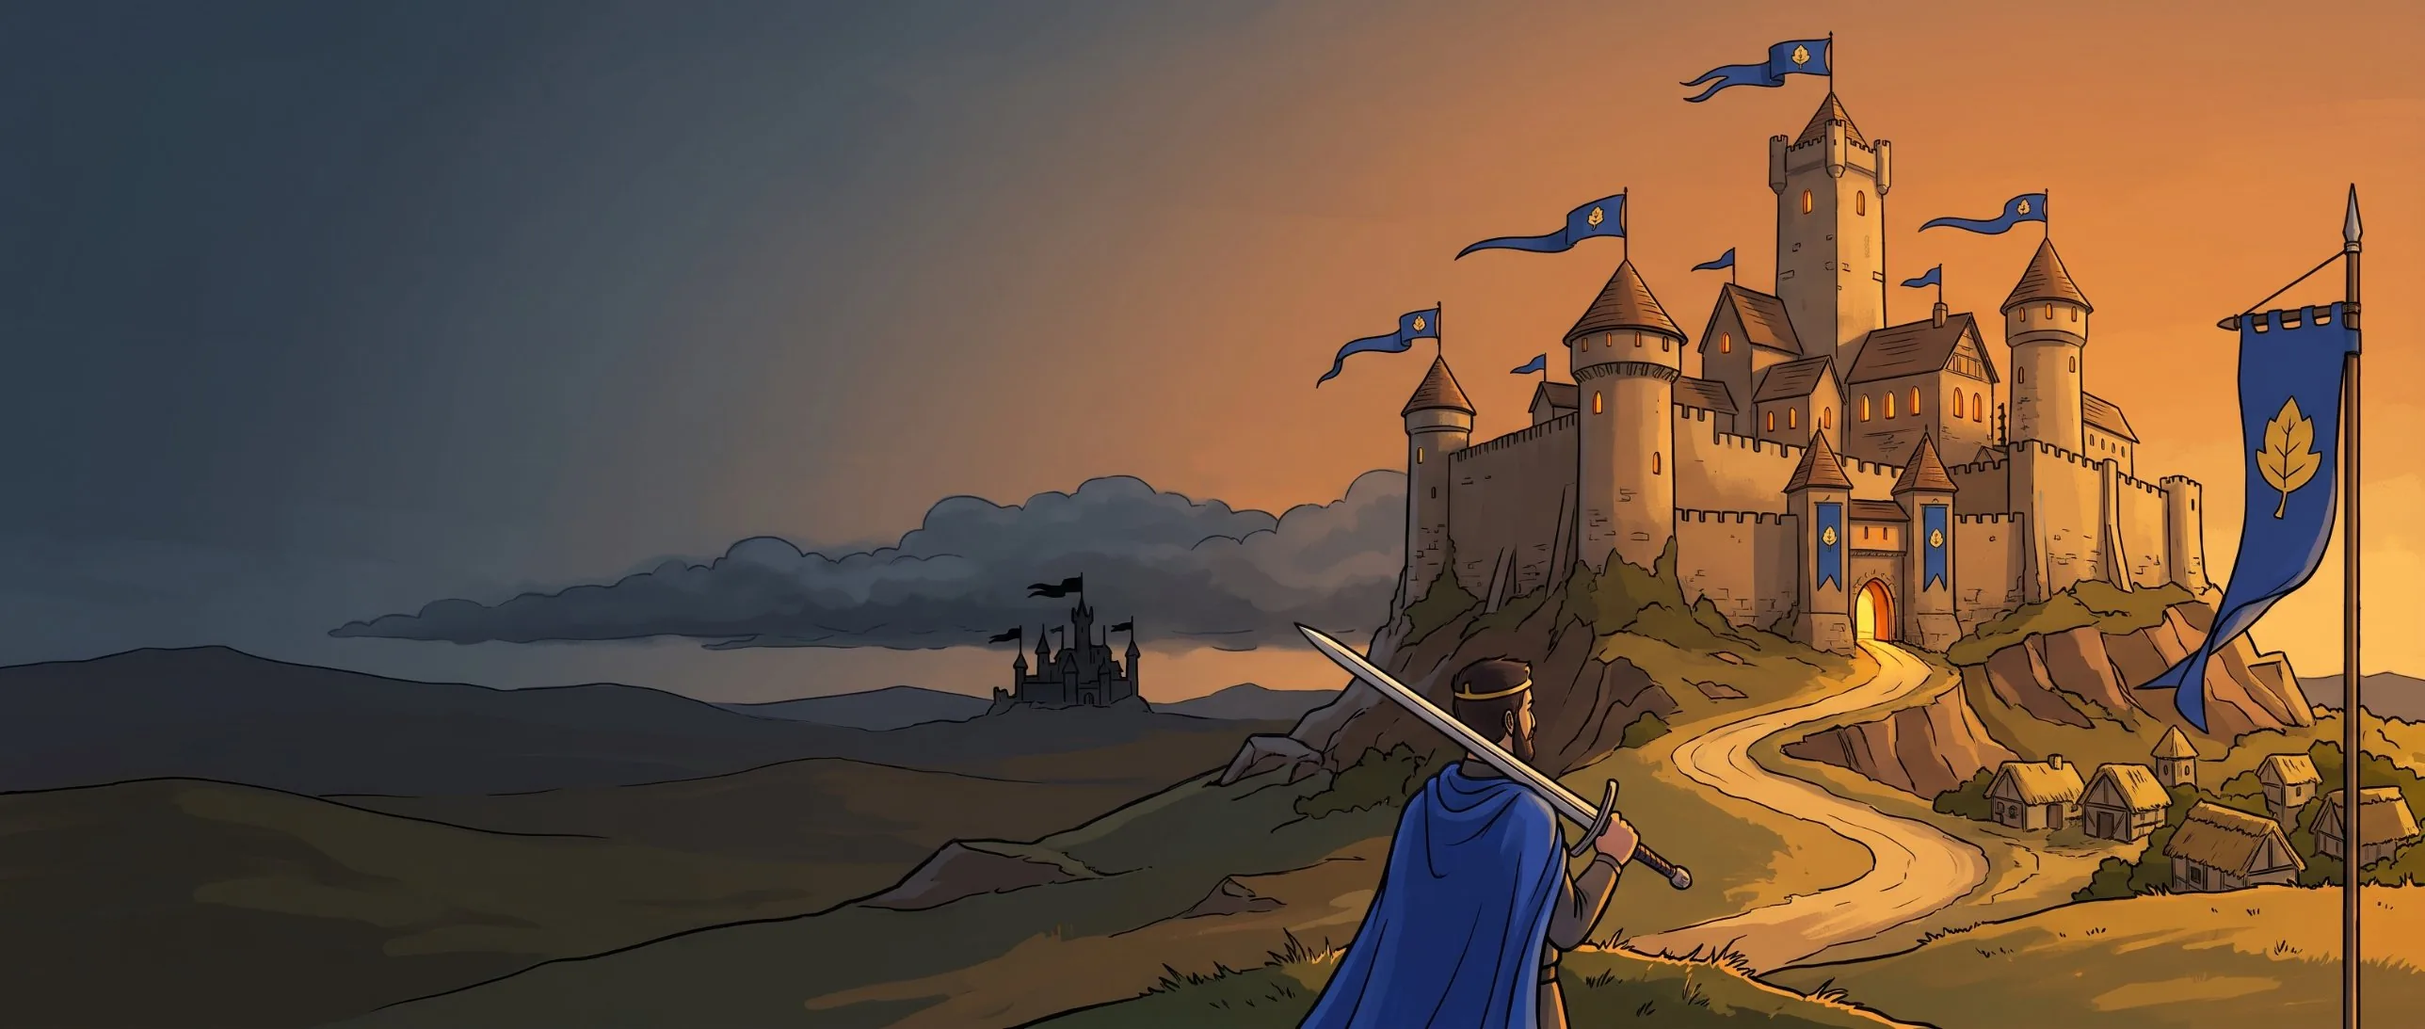
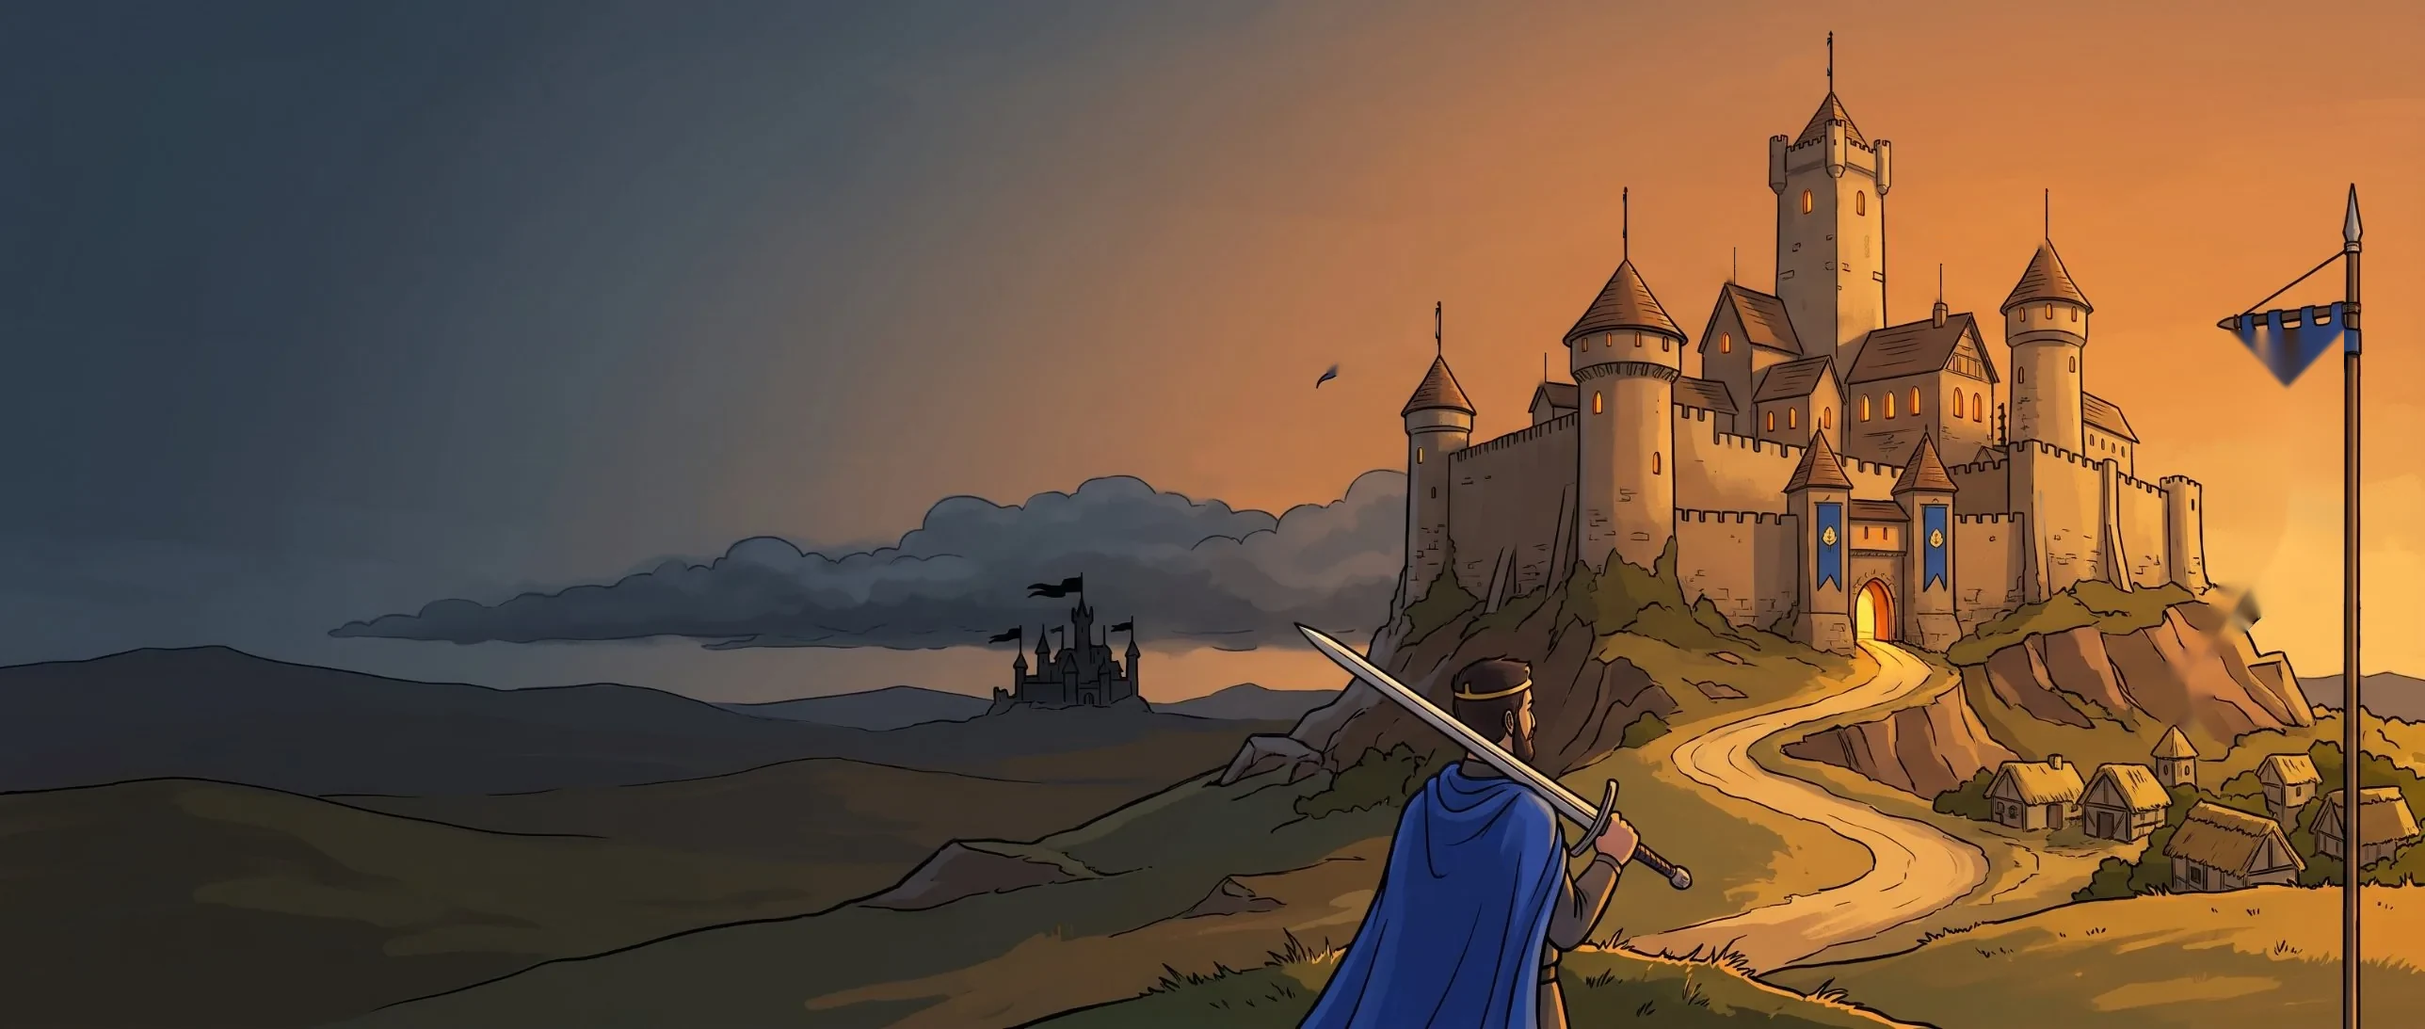
0.50.1: wapperende vlaggen, ondertitel binnen lint, gelijke knoppen, tagline weg
Claude-Session: https://claude.ai/code/session_01Tgsfz29edg2imvc78DZgVE

diff --git a/sw.js b/sw.js
@@ -2,9 +2,9 @@
 // Netwerk eerst; lukt dat niet, dan de bewaarde kopie. Bij elke stap VERSIE
 // ophogen en nieuwe bestanden aan KERN toevoegen.
 // (Opnieuw opgebouwd in stap 15: de vorige sw.js stond niet in het artifact.)
-const VERSIE = 'burcht-banier-0.50.0';
-const KERN = ["./index.html", "./manifest.webmanifest", "./css/stijl.css", "./data/assets.json", "./data/bouwwerken.json", "./data/economie.json", "./data/missies.json", "./data/kaarten.json", "./data/kastelen.json", "./data/campagne.json", "./data/levelkaart.json", "./beelden/levelkaart.webp", "./beelden/startscherm.webp", "./beelden/titel/logo.webp", "./beelden/titel/knop_campagne.webp", "./beelden/titel/knop_verder.webp", "./beelden/titel/knop_vrij.webp",
-  "./beelden/portretten/aleid.jpg", "./beelden/portretten/bartholt.jpg", "./beelden/portretten/brandt.jpg", "./beelden/portretten/everhard.jpg", "./beelden/portretten/gesina.jpg", "./beelden/portretten/hademar.jpg", "./beelden/portretten/ingeborg.jpg", "./beelden/portretten/karel.jpg", "./beelden/portretten/karel_boos.jpg", "./beelden/portretten/karel_rouw.jpg", "./beelden/portretten/lambrecht.jpg", "./beelden/portretten/ludolf.jpg", "./beelden/portretten/mechteld.jpg", "./beelden/portretten/ottger.jpg", "./beelden/portretten/ottger_boos.jpg", "./beelden/portretten/ottger_verdriet.jpg", "./beelden/portretten/reinout.jpg", "./beelden/portretten/rutger.jpg", "./beelden/portretten/valkenier.jpg", "./beelden/portretten/wessel.jpg", "./beelden/portretten/wessel_bang.jpg", "./beelden/portretten/wessel_blij.jpg", "./beelden/hud/adviseur_rand.webp", "./beelden/hud/buidel.webp", "./beelden/hud/hamer.webp", "./beelden/hud/lint.webp", "./beelden/hud/logboek_rol.webp", "./beelden/hud/medaillon.webp", "./beelden/hud/rol.webp", "./beelden/hud/slopen.webp", "./beelden/hud/tandwiel.webp", "./beelden/hud/teller_zegel.webp", "./beelden/hud/zegel_economie.webp", "./beelden/hud/zegel_leger.webp", "./beelden/hud/zegel_uitleg.webp", "./beelden/hud/zegel_verhaal.webp", "./beelden/hud/zegel_vijand.webp", "./beelden/hud/zwaard.webp", "./beelden/hud/res/hout.svg", "./beelden/hud/res/planken.svg", "./beelden/hud/res/steen.svg", "./beelden/hud/res/voedsel.svg", "./beelden/hud/res/boeren.svg", "./beelden/hud/res/goud.svg", "./beelden/hud/res/populariteit.svg", "./beelden/hud/res/populariteit_slecht.svg", "./beelden/hud/res/aanval.svg", "./beelden/hud/res/tarwe.svg", "./beelden/hud/res/brood.svg", "./beelden/hud/res/koper.svg", "./icons/icon-180.png", "./icons/icon-192.png", "./icons/icon-512.png", "./js/assets.js", "./js/bouwen.js", "./js/camera.js", "./js/config.js", "./js/economie.js", "./js/eenheden.js", "./js/heren.js", "./js/soldaten.js", "./js/machines.js", "./js/invoer.js", "./js/iso.js", "./js/kaart.js", "./js/kunst.js", "./js/leger.js", "./js/main.js", "./js/meting.js", "./js/modus.js", "./js/opslag.js", "./js/rood.js", "./js/veldheer.js", "./js/spellus.js", "./js/strijd.js", "./js/taal.js", "./js/tekenaar.js", "./js/toeval.js", "./js/ui.js", "./js/verhaal.js", "./js/proloog.js", "./js/doel.js", "./js/loodsen.js", "./js/wegvinden.js", "./js/landschap.js"];
+const VERSIE = 'burcht-banier-0.50.1';
+const KERN = ["./index.html", "./manifest.webmanifest", "./css/stijl.css", "./data/assets.json", "./data/bouwwerken.json", "./data/economie.json", "./data/missies.json", "./data/kaarten.json", "./data/kastelen.json", "./data/campagne.json", "./data/levelkaart.json", "./beelden/levelkaart.webp", "./beelden/startscherm.webp", "./beelden/titel/logo.webp", "./beelden/titel/knop_campagne.webp", "./beelden/titel/knop_verder.webp", "./beelden/titel/knop_vrij.webp", "./beelden/titel/vlaggen/top.webp", "./beelden/titel/vlaggen/wimpel_a.webp", "./beelden/titel/vlaggen/wimpel_b.webp", "./beelden/titel/vlaggen/wimpel_c.webp", "./beelden/titel/vlaggen/klein_a.webp", "./beelden/titel/vlaggen/klein_b.webp", "./beelden/titel/vlaggen/klein_c.webp", "./beelden/titel/vlaggen/banier.webp",
+  "./beelden/portretten/aleid.jpg", "./beelden/portretten/bartholt.jpg", "./beelden/portretten/brandt.jpg", "./beelden/portretten/everhard.jpg", "./beelden/portretten/gesina.jpg", "./beelden/portretten/hademar.jpg", "./beelden/portretten/ingeborg.jpg", "./beelden/portretten/karel.jpg", "./beelden/portretten/karel_boos.jpg", "./beelden/portretten/karel_rouw.jpg", "./beelden/portretten/lambrecht.jpg", "./beelden/portretten/ludolf.jpg", "./beelden/portretten/mechteld.jpg", "./beelden/portretten/ottger.jpg", "./beelden/portretten/ottger_boos.jpg", "./beelden/portretten/ottger_verdriet.jpg", "./beelden/portretten/reinout.jpg", "./beelden/portretten/rutger.jpg", "./beelden/portretten/valkenier.jpg", "./beelden/portretten/wessel.jpg", "./beelden/portretten/wessel_bang.jpg", "./beelden/portretten/wessel_blij.jpg", "./beelden/hud/adviseur_rand.webp", "./beelden/hud/buidel.webp", "./beelden/hud/hamer.webp", "./beelden/hud/lint.webp", "./beelden/hud/logboek_rol.webp", "./beelden/hud/medaillon.webp", "./beelden/hud/rol.webp", "./beelden/hud/slopen.webp", "./beelden/hud/tandwiel.webp", "./beelden/hud/teller_zegel.webp", "./beelden/hud/zegel_economie.webp", "./beelden/hud/zegel_leger.webp", "./beelden/hud/zegel_uitleg.webp", "./beelden/hud/zegel_verhaal.webp", "./beelden/hud/zegel_vijand.webp", "./beelden/hud/zwaard.webp", "./beelden/hud/res/hout.svg", "./beelden/hud/res/planken.svg", "./beelden/hud/res/steen.svg", "./beelden/hud/res/voedsel.svg", "./beelden/hud/res/boeren.svg", "./beelden/hud/res/goud.svg", "./beelden/hud/res/populariteit.svg", "./beelden/hud/res/populariteit_slecht.svg", "./beelden/hud/res/aanval.svg", "./beelden/hud/res/tarwe.svg", "./beelden/hud/res/brood.svg", "./beelden/hud/res/koper.svg", "./icons/icon-180.png", "./icons/icon-192.png", "./icons/icon-512.png", "./js/assets.js", "./js/bouwen.js", "./js/camera.js", "./js/config.js", "./js/economie.js", "./js/eenheden.js", "./js/heren.js", "./js/soldaten.js", "./js/machines.js", "./js/invoer.js", "./js/iso.js", "./js/kaart.js", "./js/kunst.js", "./js/leger.js", "./js/main.js", "./js/meting.js", "./js/modus.js", "./js/opslag.js", "./js/rood.js", "./js/veldheer.js", "./js/spellus.js", "./js/strijd.js", "./js/taal.js", "./js/tekenaar.js", "./js/toeval.js", "./js/ui.js", "./js/vlaggen.js", "./js/verhaal.js", "./js/proloog.js", "./js/doel.js", "./js/loodsen.js", "./js/wegvinden.js", "./js/landschap.js"];
 
 self.addEventListener('install', (e) => {
   e.waitUntil(caches.open(VERSIE).then((c) => c.addAll(KERN)).then(() => self.skipWaiting()));

diff --git a/js/vlaggen.js b/js/vlaggen.js
@@ -1,0 +1,107 @@
+// De vlaggen op het beginscherm wapperen rustig in de wind (stap 41).
+// De achtergrond (beelden/startscherm.webp) is zonder vlaggen; de vlaggen zijn
+// losse plaatjes (beelden/titel/vlaggen) die hier strook voor strook een beetje
+// worden verschoven, met een golf die van de paal naar de punt loopt.
+// Posities zijn pixels van startscherm.webp (2576 bij 1093).
+
+const BEELD = { b: 2576, h: 1093, posX: 0.85, posY: 0.5 };   // gelijk aan object-fit: cover, object-position: 85% 50%
+const RAND = 6;                                                // doorzichtige rand rond elk plaatje
+const STROOK = 2;                                              // breedte van een strook in beeldpixels
+const FPS = 30;
+
+// soort 'wimpel': paal rechts, golft op en neer. soort 'banier': hangt aan de bovenkant, golft opzij.
+// t = duur van een golf in seconden, f = fase, k = hoe sterk (1 = normaal)
+const VLAGGEN = [
+  { naam: 'top',      soort: 'wimpel', x: 1776, y: 32,  w: 172, h: 85, t: 5.6, f: 0.00, k: 1.0 },
+  { naam: 'wimpel_a', soort: 'wimpel', x: 1537, y: 198, w: 194, h: 86, t: 6.1, f: 0.35, k: 1.0 },
+  { naam: 'wimpel_b', soort: 'wimpel', x: 2030, y: 192, w: 150, h: 73, t: 5.2, f: 0.62, k: 1.0 },
+  { naam: 'wimpel_c', soort: 'wimpel', x: 1408, y: 319, w: 124, h: 79, t: 5.9, f: 0.18, k: 1.0 },
+  { naam: 'klein_a',  soort: 'wimpel', x: 1788, y: 255, w: 61,  h: 47, t: 4.8, f: 0.80, k: 1.2 },
+  { naam: 'klein_b',  soort: 'wimpel', x: 2011, y: 272, w: 57,  h: 49, t: 5.0, f: 0.45, k: 1.2 },
+  { naam: 'klein_c',  soort: 'wimpel', x: 1596, y: 367, w: 52,  h: 45, t: 5.3, f: 0.10, k: 1.2 },
+  { naam: 'banier',   soort: 'banier', x: 2268, y: 346, w: 229, h: 443, t: 7.0, f: 0.25, k: 1.0 },
+];
+
+const klem = (v, a, b) => Math.max(a, Math.min(b, v));
+
+export function maakVlaggen(scherm, kader) {
+  const doek = document.getElementById('titel-vlaggen');
+  if (!doek) return { zet() {} };
+  const g = doek.getContext('2d');
+  const minderBeweging = window.matchMedia && window.matchMedia('(prefers-reduced-motion: reduce)').matches;
+  let klaar = false, aan = false, raf = 0, laatste = 0, t0 = 0;
+  let B = 0, H = 0, dpr = 1, schaal = 1, ox = 0, oy = 0;
+
+  for (const v of VLAGGEN) {
+    v.img = new Image();
+    v.img.decoding = 'async';
+    v.img.onload = () => { v.ok = true; if (VLAGGEN.every((x) => x.ok)) { klaar = true; if (aan) start(); } };
+    v.img.src = `beelden/titel/vlaggen/${v.naam}.webp`;
+  }
+
+  function maat() {
+    const w = scherm.clientWidth, h = scherm.clientHeight;
+    dpr = Math.min(window.devicePixelRatio || 1, 2);
+    if (w === B && h === H && doek.width === Math.round(w * dpr)) return;
+    B = w; H = h;
+    doek.width = Math.round(w * dpr); doek.height = Math.round(h * dpr);
+    schaal = Math.max(B / BEELD.b, H / BEELD.h);
+    ox = (B - BEELD.b * schaal) * BEELD.posX;
+    oy = (H - BEELD.h * schaal) * BEELD.posY;
+  }
+
+  function teken(tijd) {
+    maat();
+    g.setTransform(dpr, 0, 0, dpr, 0, 0);
+    g.clearRect(0, 0, B, H);
+    for (const v of VLAGGEN) {
+      const { img, w, h } = v;
+      const s = tijd / v.t + v.f;
+      const strook = STROOK;
+      if (v.soort === 'wimpel') {
+        const A = Math.max(3.5, 0.05 * w) * v.k;
+        for (let px = 0; px < w; px += strook) {
+          const r = klem((w - RAND - px) / (w - 2 * RAND), 0, 1);          // 0 bij de paal, 1 bij de punt
+          const dy = A * Math.pow(r, 1.25) * (Math.sin(6.2832 * (s - 0.8 * r)) + 0.3 * Math.sin(6.2832 * (1.7 * s - 1.5 * r)));
+          const sw = Math.min(strook, w - px);
+          g.drawImage(img, px, 0, sw, h, ox + (v.x + px) * schaal, oy + (v.y + dy) * schaal, sw * schaal + 0.6, h * schaal);
+        }
+      } else {
+        const A = 0.034 * h * v.k;
+        for (let py = 0; py < h; py += strook) {
+          const r = klem(py / h, 0, 1);                                      // 0 bovenaan, 1 onderaan
+          // het doek waait van de paal weg: alleen naar links, nooit over de paal heen
+          const dx = -A * Math.pow(r, 1.4) * (0.5 + 0.38 * Math.sin(6.2832 * (s - 0.7 * r)) + 0.12 * Math.sin(6.2832 * (1.9 * s - 1.3 * r)));
+          const sh = Math.min(strook, h - py);
+          g.drawImage(img, 0, py, w, sh, ox + (v.x + dx) * schaal, oy + (v.y + py) * schaal, w * schaal, sh * schaal + 0.6);
+        }
+      }
+    }
+  }
+
+  function lus(nu) {
+    raf = requestAnimationFrame(lus);
+    if (nu - laatste < 1000 / FPS - 2) return;
+    laatste = nu;
+    teken((nu - t0) / 1000);
+  }
+  function start() {
+    if (!klaar) return;
+    cancelAnimationFrame(raf);
+    if (minderBeweging) { teken(0); return; }       // minder beweging: de vlaggen staan stil
+    t0 = performance.now(); laatste = 0;
+    raf = requestAnimationFrame(lus);
+  }
+
+  window.addEventListener('resize', () => { if (aan && klaar) teken((performance.now() - t0) / 1000); });
+
+  return {
+    // aan = het beginscherm is open en toont het schilderij
+    zet(waar) {
+      aan = !!waar;
+      doek.hidden = !aan;
+      if (aan) start();
+      else { cancelAnimationFrame(raf); g.clearRect(0, 0, doek.width, doek.height); }
+    },
+  };
+}

diff --git a/css/stijl.css b/css/stijl.css
@@ -591,6 +591,9 @@ button:active {
   object-position: 85% 50%;
 }
 #titel-beeld[hidden] { display: none; }
+/* De wapperende vlaggen liggen precies over het schilderij (js/vlaggen.js). */
+#titel-vlaggen { position: absolute; inset: 0; width: 100%; height: 100%; pointer-events: none; }
+#titel-vlaggen[hidden] { display: none; }
 /* Een donkere schaduw links, zodat titel en knoppen goed leesbaar blijven. */
 #titelscherm:not(.op-kaart)::before {
   content: "";
@@ -613,16 +616,17 @@ button:active {
 }
 #titel-voorpagina[hidden] { display: none; }
 /* Het logo (stap 40): plaat met titel en banier; de ondertitel zet de code op het lint. */
-#titel-voorpagina h1 { position: relative; width: min(340px, 41vw); margin: 0 0 6px; line-height: 0; filter: drop-shadow(0 4px 8px #000a); }
+#titel-voorpagina h1 { position: relative; container-type: inline-size; width: min(340px, 41vw); margin: 0 0 6px; line-height: 0; filter: drop-shadow(0 4px 8px #000a); }
 #titel-logo img { display: block; width: 100%; height: auto; }
 #titel-ondertitel {
   position: absolute;
-  left: 32%; width: 38%; top: 80%; height: 14%;
+  left: 30%; width: 42%; top: 80%; height: 14%;
   display: flex; align-items: center; justify-content: center;
-  font: 700 clamp(7px, 1.35vw, 10.5px)/1 Georgia, 'Times New Roman', serif;
-  letter-spacing: 0.06em; text-transform: uppercase; white-space: nowrap;
+  font: 700 clamp(6px, 1.05vw, 8.6px)/1 Georgia, 'Times New Roman', serif;
+  letter-spacing: 0.04em; text-transform: uppercase; white-space: nowrap;
   color: #f7ecd0; text-shadow: 0 1px 0 #0b1a3a, 0 0 4px #0b1a3a;
 }
+@supports (font-size: 1cqw) { #titel-ondertitel { font-size: 2.55cqw; } }
 #titel-voorpagina p { margin: 0 0 10px; opacity: 0.9; font-size: 0.85em; max-width: 260px; text-shadow: 0 1px 4px #000a; }
 #titel-voorpagina { justify-content: flex-start; padding-top: max(10px, env(safe-area-inset-top)); width: min(420px, 50vw); }
 #titel-knoppen { display: flex; flex-direction: column; gap: 6px; align-items: flex-start; }
@@ -631,6 +635,7 @@ button:active {
 /* De knoppen (stap 40): lege houten platen; het woord zet de code erop. */
 #titel-knoppen .titel-knop {
   min-width: 0; min-height: 44px; padding: 0 22%;
+  width: min(220px, 28vw); aspect-ratio: 700 / 158;   /* alle drie even groot */
   display: flex; align-items: center; justify-content: center;
   background: transparent center / 100% 100% no-repeat;
   border: 0; border-radius: 0; box-shadow: none;
@@ -641,9 +646,9 @@ button:active {
 }
 #titel-knoppen .titel-knop:active { background-color: transparent; filter: brightness(0.8) drop-shadow(0 1px 2px #0009); transform: translateY(1px); }
 #titel-knoppen .titel-knop:focus-visible { outline: 2px solid #f3d37a; outline-offset: 3px; }
-#titel-knoppen #titel-campagne { background-image: url('../beelden/titel/knop_campagne.webp'); width: min(230px, 29vw); aspect-ratio: 700 / 151; }
-#titel-knoppen #titel-verder { background-image: url('../beelden/titel/knop_verder.webp'); width: min(210px, 26vw); aspect-ratio: 700 / 159; }
-#titel-knoppen #titel-vrij { background-image: url('../beelden/titel/knop_vrij.webp'); width: min(210px, 26vw); aspect-ratio: 700 / 158; }
+#titel-knoppen #titel-campagne { background-image: url('../beelden/titel/knop_campagne.webp'); }
+#titel-knoppen #titel-verder { background-image: url('../beelden/titel/knop_verder.webp'); }
+#titel-knoppen #titel-vrij { background-image: url('../beelden/titel/knop_vrij.webp'); }
 
 /* De levelkaart: het schilderij over het hele scherm, met de knoppen erbovenop. */
 #titel-kaart { position: absolute; inset: 0; display: flex; align-items: center; justify-content: center; }

diff --git a/js/ui.js b/js/ui.js
@@ -1,11 +1,13 @@
 // UI: de tekst en knoppen bovenop het spel (gewone HTML, geen canvas).
 
 import { CONFIG } from './config.js';
+import { maakVlaggen } from './vlaggen.js';
 
 const komma = (getal) => getal.toFixed(1).replace('.', ',');
 
 export function maakUi() {
   const el = (id) => document.getElementById(id);
+  const vlaggen = maakVlaggen(el('titelscherm'), el('titel-beeld'));
   let beelden = '';
   let offline = false;
 
@@ -418,12 +420,13 @@ export function maakUi() {
     // Het beginscherm. weergave = 'voorpagina' of 'kaart'.
     toonTitel({ open, weergave = 'voorpagina', kanVerder = false }) {
       el('titelscherm').hidden = !open;
-      if (!open) return;
+      if (!open) { vlaggen.zet(false); return; }
       el('titelscherm').classList.toggle('op-kaart', weergave === 'kaart');
       el('titel-beeld').hidden = weergave !== 'voorpagina';
       el('titel-voorpagina').hidden = weergave !== 'voorpagina';
       el('titel-kaart').hidden = weergave !== 'kaart';
       el('titel-verder').hidden = !kanVerder;
+      vlaggen.zet(weergave === 'voorpagina');
     },
     // De levelkaart: het schilderij met de weg, de brug en de punten erbovenop.
     // levels = [{ id, naam, portret, x, y (procenten van het beeld), staat: 'open'|'gewonnen'|'dicht'|'nu'|'later' }].

diff --git a/index.html b/index.html
@@ -213,9 +213,9 @@
   <!-- Het beginscherm en de levelkaart (stap 19) -->
   <div id="titelscherm" hidden>
     <img id="titel-beeld" src="beelden/startscherm.webp" alt="" decoding="async">
+    <canvas id="titel-vlaggen" aria-hidden="true" hidden></canvas>
     <div id="titel-voorpagina">
       <h1 id="titel-logo"><img src="beelden/titel/logo.webp" alt="Aldervale" decoding="async"><span id="titel-ondertitel">Banners of the Vale</span></h1>
-      <p>Build your keep, lead your people and break the walls of the red lord.</p>
       <div id="titel-knoppen">
         <button id="titel-campagne" class="titel-knop" type="button">Campaign</button>
         <button id="titel-vrij" class="titel-knop" type="button">Free play</button>

diff --git a/js/config.js b/js/config.js
@@ -3,7 +3,7 @@
 // van de code hoeft te zijn.
 
 export const CONFIG = {
-  versie: '0.50.0',
+  versie: '0.50.1',
   stap: 40,
 
   // Het speelveld. Hetzelfde zaad geeft altijd dezelfde kaart.

diff --git a/WIJZIGINGEN.md b/WIJZIGINGEN.md
@@ -345,3 +345,10 @@
 - Nieuw app icoon (banier met elzenblad op donkerblauw) in icons/icon-180, -192 en -512. Het maskable icoon gebruikt hetzelfde plaatje.
 - sw.js: vier nieuwe bestanden in KERN, versie opgehoogd.
 - Bekend: een geïnstalleerde app op het beginscherm toont het oude icoon en de oude naam tot je hem verwijdert en opnieuw toevoegt. Het blad op de banier lijkt meer op een berken of esdoornblad dan op een els. De schaduw rond de letters heeft een zwakke rode rand door de magenta achtergrond.
+
+## 0.50.1: vlaggen wapperen, ondertitel past, knoppen gelijk, tagline weg
+- Op het beginscherm wapperen de vlaggen van het schilderij rustig in de wind (nieuw: js/vlaggen.js, canvas `#titel-vlaggen`). De achtergrond `beelden/startscherm.webp` is nu zonder vlaggen; acht vlaggen staan als losse plaatjes in `beelden/titel/vlaggen/`. Wimpels golven op en neer, de grote banier waait van de paal weg. Duur van een golf 5 tot 7 seconden. Bij "minder beweging" (iOS-instelling) staan ze stil. De animatie stopt als het beginscherm dicht is of de levelkaart open staat.
+- De ondertitel Banners of the Vale schaalt nu mee met het logo en blijft binnen het lint.
+- Campaign, Continue en Free play zijn even groot.
+- De zin "Build your keep, lead your people and break the walls of the red lord." is weg.
+- Bekend: de vlaggen zijn met een script uit het origineel geknipt (staartjes en randen kunnen op sommige schermen een fractie afwijken). De grote banier laat onderaan, waar hij over de heuvel hangt, een vage vlek in de achtergrond zien als hij wegwaait. Op een echte iPhone nog niet bekeken; de kosten voor de batterij zijn niet gemeten.
